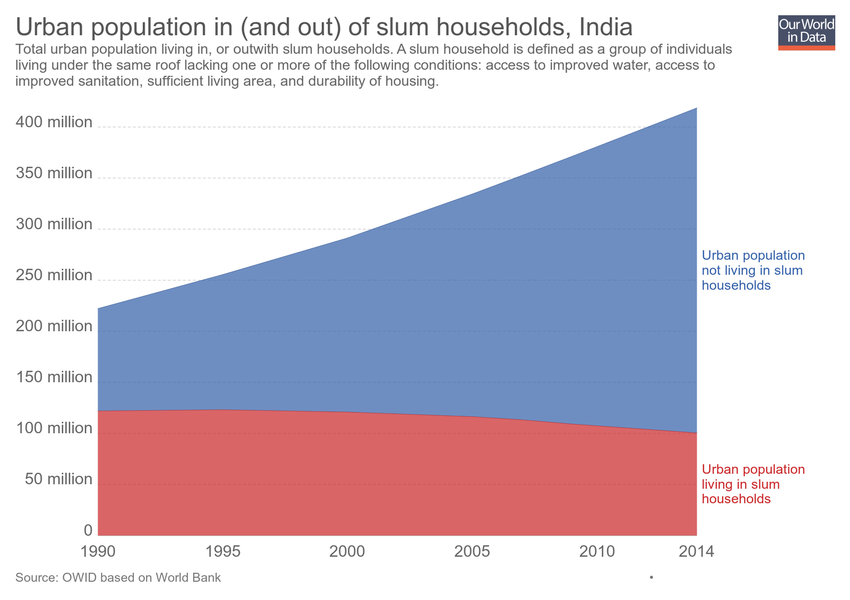
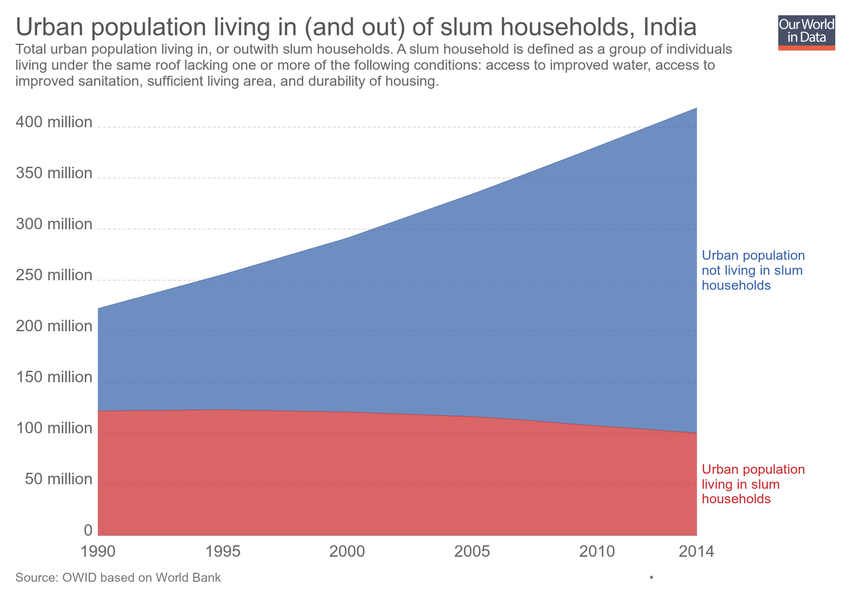
Updating chart urban-pop-in-out-of-slums

Changed region(s): [[0.2447, 0.03, 0.8259, 0.06]]

diff --git a/grapher/urban-pop-in-out-of-slums.html b/grapher/urban-pop-in-out-of-slums.html
@@ -1,4 +1,4 @@
-<!doctype html><html><head><meta name="viewport" content="width=device-width, initial-scale=1" /><title>Urban population in (and out) of slum households - Our World in Data</title><meta name="description" content="Total urban population living in, or outwith slum households. A slum household is defined as a group of individuals living under the same roof lacking one or more of the following conditions: access to improved water, access to improved sanitation, sufficient living area, and durability of housing." /><link rel="canonical" href="https://ourworldindata.org/grapher/urban-pop-in-out-of-slums" /><meta property="fb:app_id" content="1149943818390250" /><meta property="og:url" content="https://ourworldindata.org/grapher/urban-pop-in-out-of-slums" /><meta property="og:title" content="Urban population in (and out) of slum households" /><meta property="og:description" content="Total urban population living in, or outwith slum households. A slum household is defined as a group of individuals living under the same roof lacking one or more of the following conditions: access to improved water, access to improved sanitation, sufficient living area, and durability of housing." /><meta property="og:image" content="https://ourworldindata.org/grapher/exports/urban-pop-in-out-of-slums.png?v=1" /><meta property="og:image:width" content="850" /><meta property="og:image:height" content="600" /><meta property="og:site_name" content="Our World in Data" /><meta name="twitter:card" content="summary_large_image" /><meta name="twitter:site" content="@OurWorldInData" /><meta name="twitter:creator" content="@OurWorldInData" /><meta name="twitter:title" content="Urban population in (and out) of slum households" /><meta name="twitter:description" content="Total urban population living in, or outwith slum households. A slum household is defined as a group of individuals living under the same roof lacking one or more of the following conditions: access to improved water, access to improved sanitation, sufficient living area, and durability of housing." /><meta name="twitter:image" content="https://ourworldindata.org/grapher/exports/urban-pop-in-out-of-slums.png?v=1" /><style>
+<!doctype html><html><head><meta name="viewport" content="width=device-width, initial-scale=1" /><title>Urban population living in (and out) of slum households - Our World in Data</title><meta name="description" content="Total urban population living in, or outwith slum households. A slum household is defined as a group of individuals living under the same roof lacking one or more of the following conditions: access to improved water, access to improved sanitation, sufficient living area, and durability of housing." /><link rel="canonical" href="https://ourworldindata.org/grapher/urban-pop-in-out-of-slums" /><meta property="fb:app_id" content="1149943818390250" /><meta property="og:url" content="https://ourworldindata.org/grapher/urban-pop-in-out-of-slums" /><meta property="og:title" content="Urban population living in (and out) of slum households" /><meta property="og:description" content="Total urban population living in, or outwith slum households. A slum household is defined as a group of individuals living under the same roof lacking one or more of the following conditions: access to improved water, access to improved sanitation, sufficient living area, and durability of housing." /><meta property="og:image" content="https://ourworldindata.org/grapher/exports/urban-pop-in-out-of-slums.png?v=2" /><meta property="og:image:width" content="850" /><meta property="og:image:height" content="600" /><meta property="og:site_name" content="Our World in Data" /><meta name="twitter:card" content="summary_large_image" /><meta name="twitter:site" content="@OurWorldInData" /><meta name="twitter:creator" content="@OurWorldInData" /><meta name="twitter:title" content="Urban population living in (and out) of slum households" /><meta name="twitter:description" content="Total urban population living in, or outwith slum households. A slum household is defined as a group of individuals living under the same roof lacking one or more of the following conditions: access to improved water, access to improved sanitation, sufficient living area, and durability of housing." /><meta name="twitter:image" content="https://ourworldindata.org/grapher/exports/urban-pop-in-out-of-slums.png?v=2" /><style>
         html, body {
             height: 100%;
             margin: 0;
@@ -20,8 +20,8 @@
         }
     </style><noscript><style>
                     figure { display: none !important; }
-                </style></noscript><link rel="stylesheet" href="https://ourworldindata.org/grapher/assets/commons.bundle.dcbbe53805c487d5e57617b10ac73a8a.css" /><link rel="preload" href="/grapher/data/variables/97557+97558.json?v=1" as="fetch" crossorigin /></head><body class="singleChart"><figure data-grapher-src="/grapher/urban-pop-in-out-of-slums"></figure><noscript id="fallback"><img src="/grapher/exports/urban-pop-in-out-of-slums.svg" /><p>Interactive visualization requires JavaScript</p></noscript><script src="https://cdn.polyfill.io/v2/polyfill.min.js?features=es6,fetch"></script><script src="https://ourworldindata.org/grapher/assets/commons.bundle.da523acc49807a06a11f.js"></script><script src="https://ourworldindata.org/grapher/assets/charts.bundle.da523acc49807a06a11f.js"></script><script>
-        var jsonConfig = {"map":{"projection":"World","colorSchemeLabels":[],"colorSchemeValues":[],"customNumericColors":[],"customCategoryColors":{},"customCategoryLabels":{},"customHiddenCategories":{}},"tab":"chart","slug":"urban-pop-in-out-of-slums","type":"StackedArea","title":"Urban population in (and out) of slum households","xAxis":{"scaleType":"linear"},"yAxis":{"min":0,"scaleType":"linear"},"version":1,"subtitle":"Total urban population living in, or outwith slum households. A slum household is defined as a group of individuals living under the same roof lacking one or more of the following conditions: access to improved water, access to improved sanitation, sufficient living area, and durability of housing.","hasMapTab":false,"stackMode":"absolute","dimensions":[{"display":{"name":"Urban population living in slum households","numDecimalPlaces":0},"property":"y","variableId":97557},{"display":{"name":"Urban population not living in slum households","numDecimalPlaces":0},"property":"y","variableId":97558}],"sourceDesc":"OWID based on World Bank","hasChartTab":true,"isPublished":true,"selectedData":[{"index":1,"entityId":137},{"index":0,"entityId":137}],"addCountryMode":"change-country","baseColorScheme":"owid-distinct","invertColorScheme":true,"id":2802};
+                </style></noscript><link rel="stylesheet" href="https://ourworldindata.org/grapher/assets/commons.bundle.dcbbe53805c487d5e57617b10ac73a8a.css" /><link rel="preload" href="/grapher/data/variables/97557+97558.json?v=2" as="fetch" crossorigin /></head><body class="singleChart"><figure data-grapher-src="/grapher/urban-pop-in-out-of-slums"></figure><noscript id="fallback"><img src="/grapher/exports/urban-pop-in-out-of-slums.svg" /><p>Interactive visualization requires JavaScript</p></noscript><script src="https://cdn.polyfill.io/v2/polyfill.min.js?features=es6,fetch"></script><script src="https://ourworldindata.org/grapher/assets/commons.bundle.da523acc49807a06a11f.js"></script><script src="https://ourworldindata.org/grapher/assets/charts.bundle.da523acc49807a06a11f.js"></script><script>
+        var jsonConfig = {"id":2802,"map":{"projection":"World","colorSchemeLabels":[],"colorSchemeValues":[],"customNumericColors":[],"customCategoryColors":{},"customCategoryLabels":{},"customHiddenCategories":{}},"tab":"chart","slug":"urban-pop-in-out-of-slums","type":"StackedArea","title":"Urban population living in (and out) of slum households","xAxis":{"scaleType":"linear"},"yAxis":{"min":0,"scaleType":"linear"},"version":2,"subtitle":"Total urban population living in, or outwith slum households. A slum household is defined as a group of individuals living under the same roof lacking one or more of the following conditions: access to improved water, access to improved sanitation, sufficient living area, and durability of housing.","hasMapTab":false,"stackMode":"absolute","dimensions":[{"display":{"name":"Urban population living in slum households","numDecimalPlaces":0},"property":"y","variableId":97557},{"display":{"name":"Urban population not living in slum households","numDecimalPlaces":0},"property":"y","variableId":97558}],"sourceDesc":"OWID based on World Bank","hasChartTab":true,"isPublished":true,"selectedData":[{"index":1,"entityId":137},{"index":0,"entityId":137}],"addCountryMode":"change-country","baseColorScheme":"owid-distinct","invertColorScheme":true};
         var figure = document.getElementsByTagName("figure")[0];
         try {
             window.App = {};
